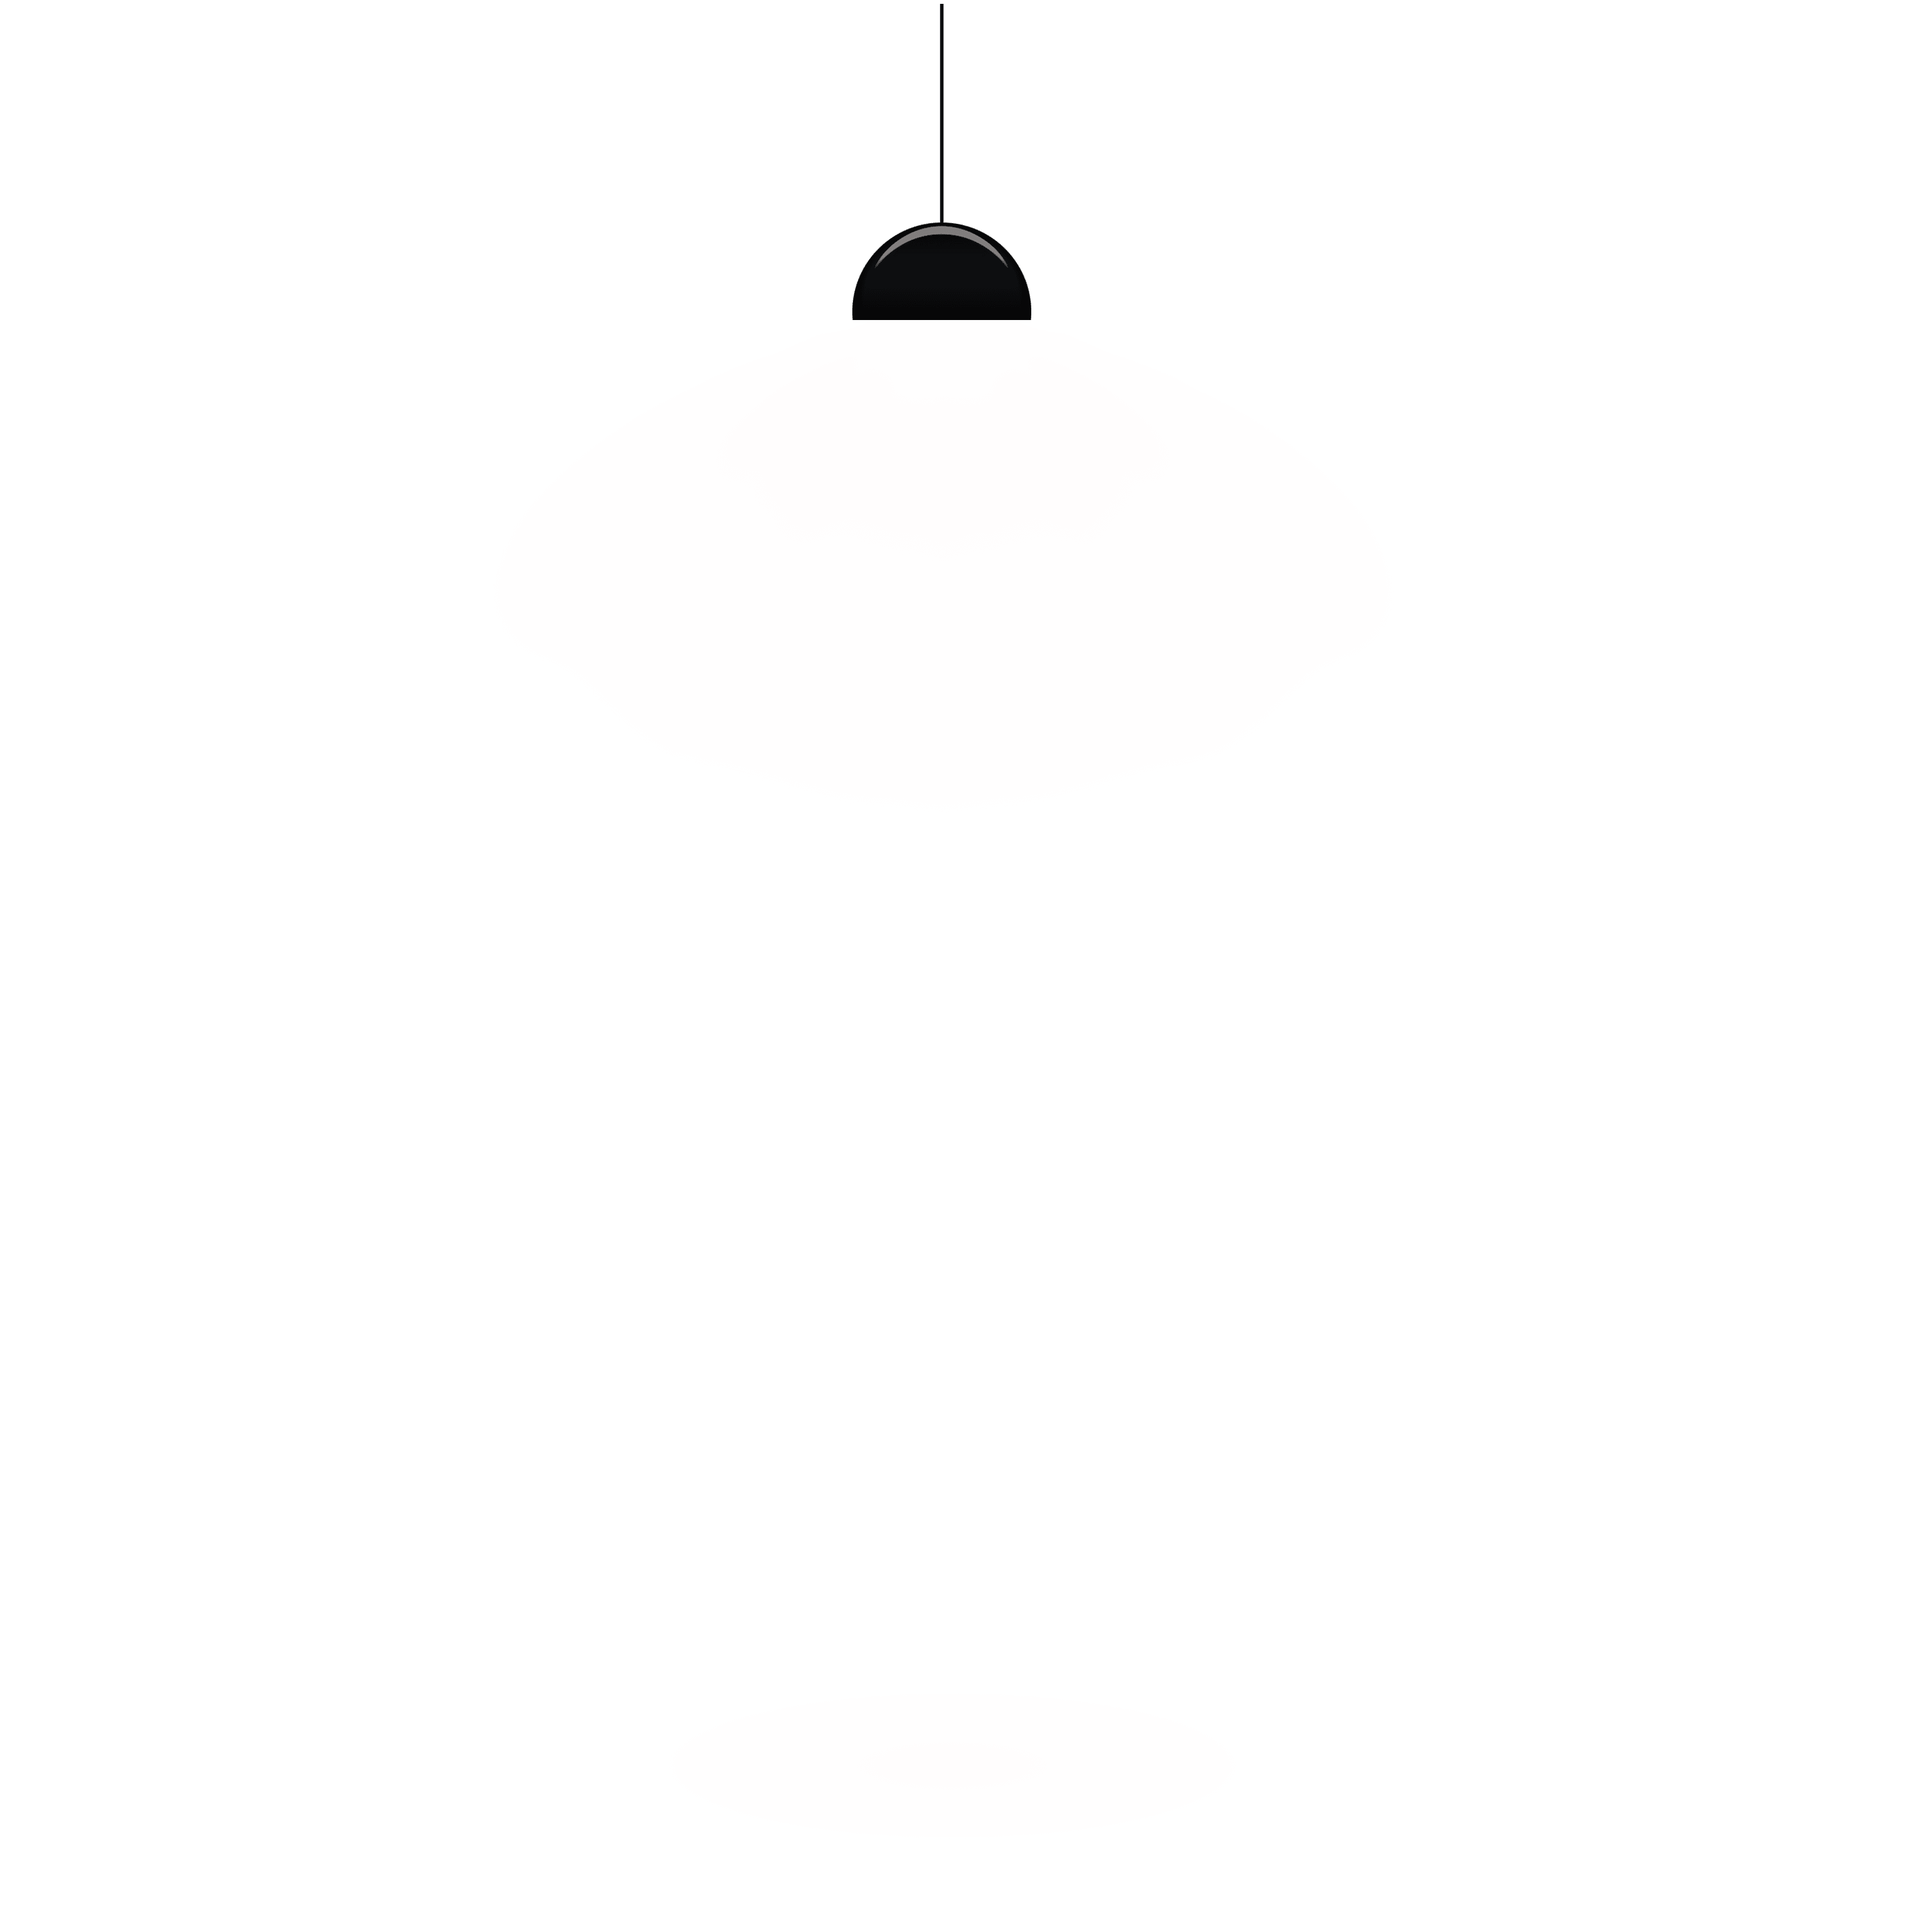
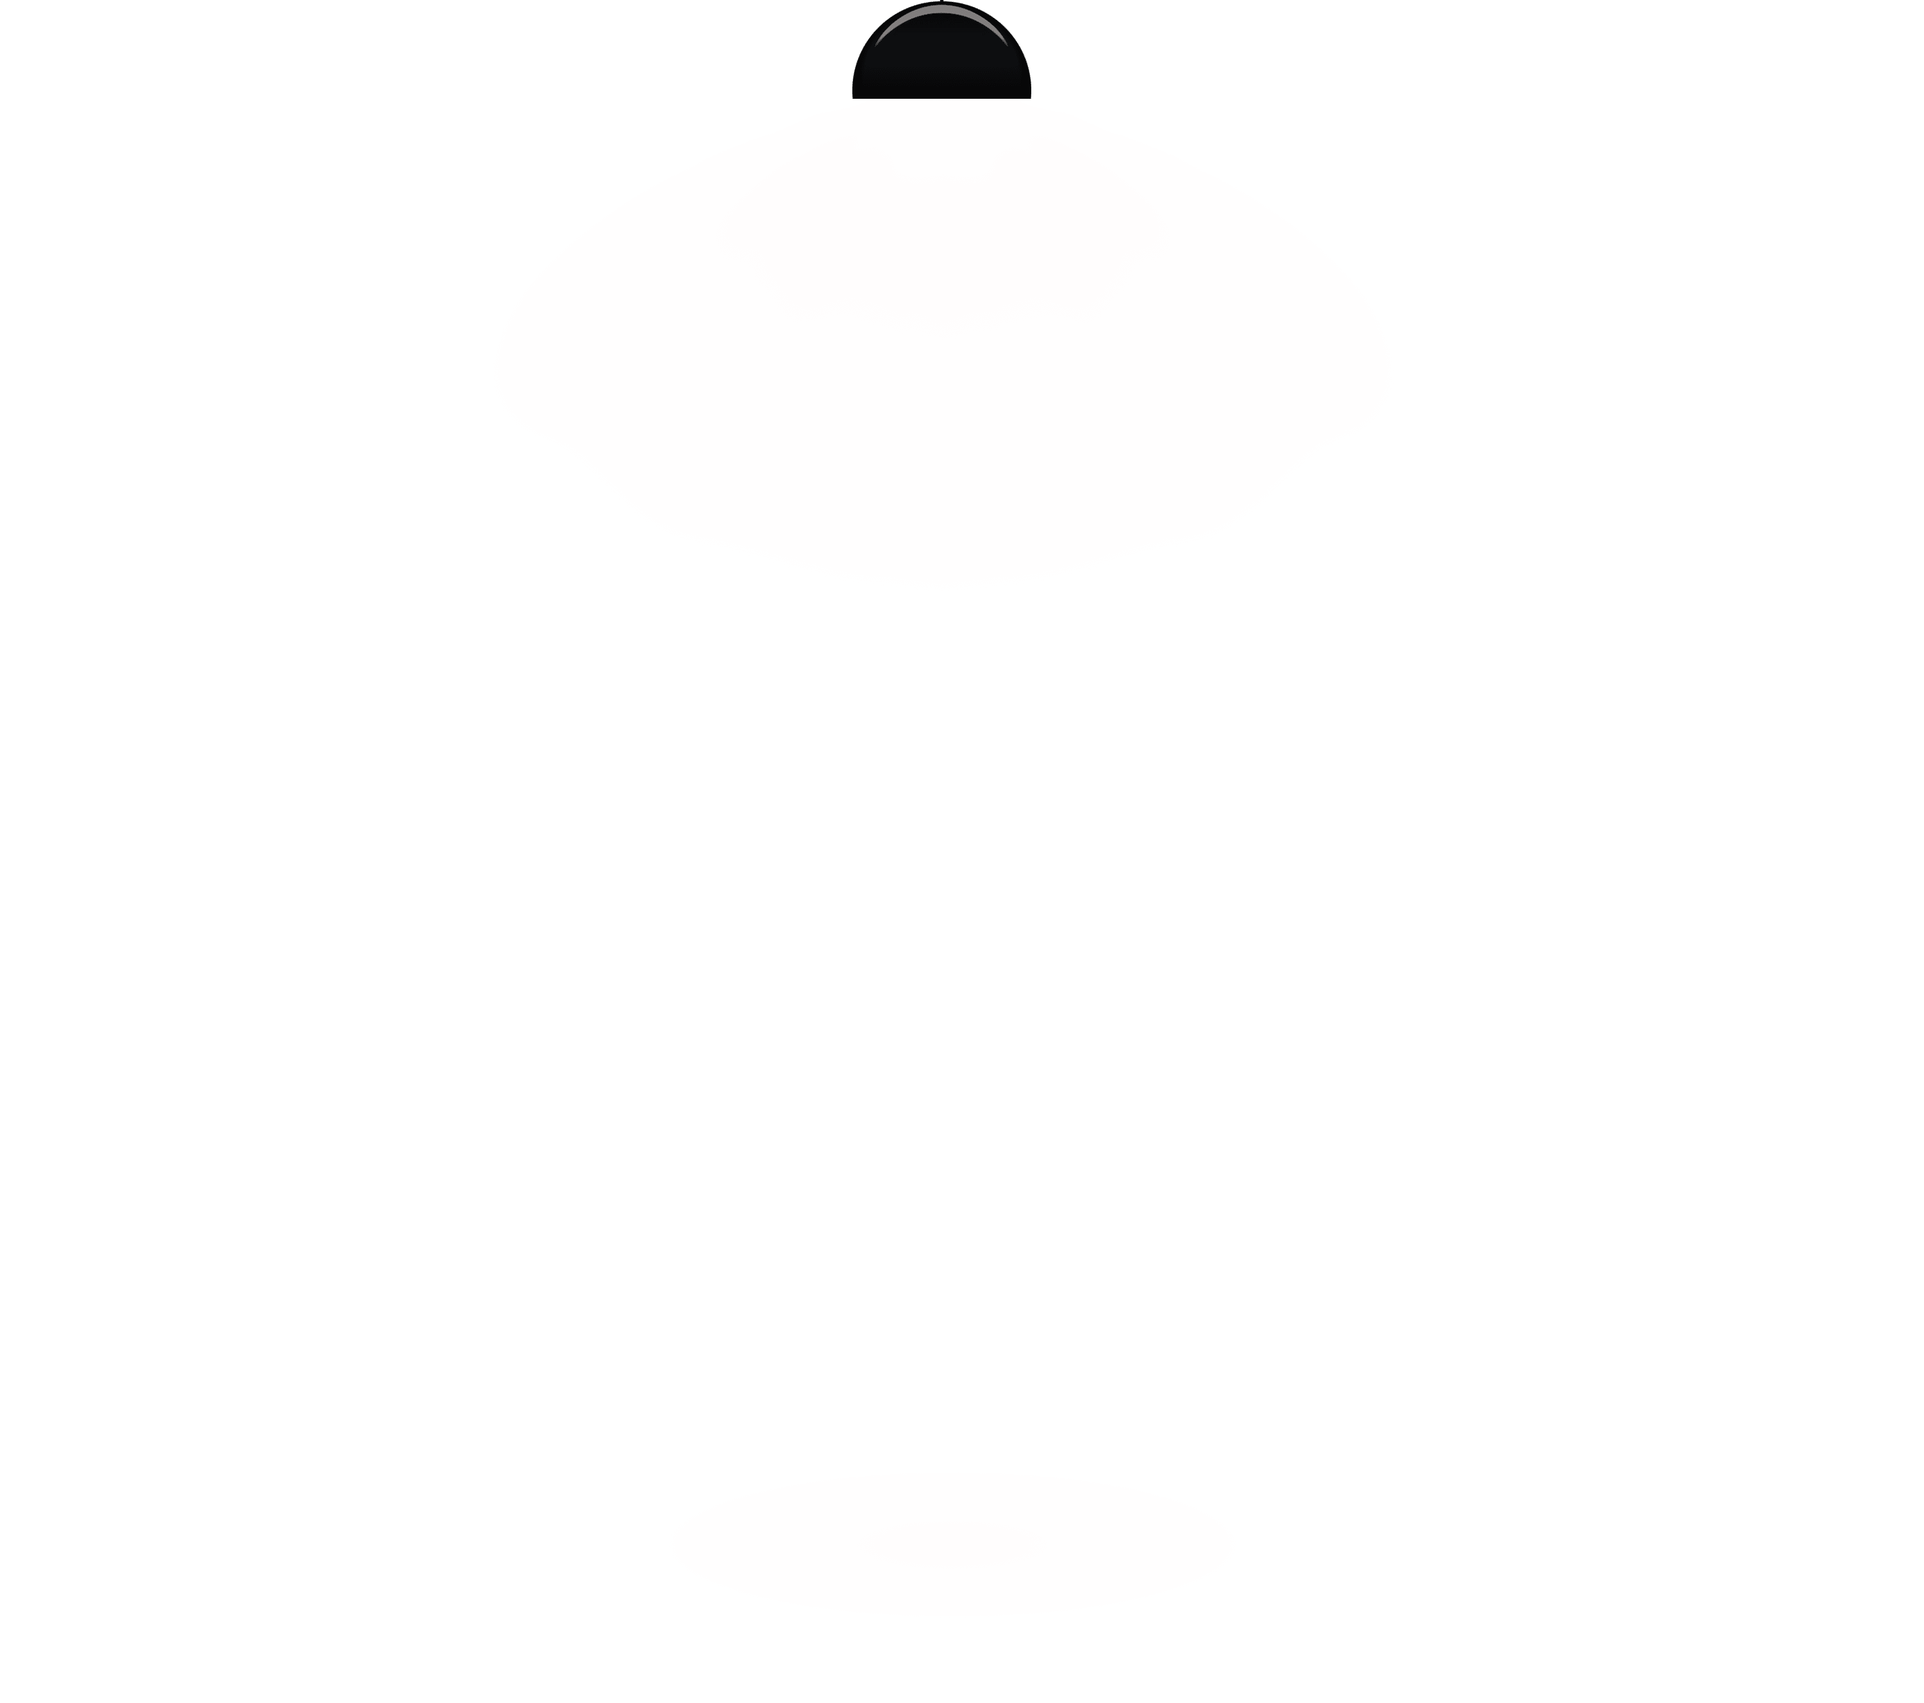
select page rendered

Changed region(s): [[0.434, 0.0927, 0.558, 0.1853], [0.434, 0.0, 0.558, 0.0618]]

diff --git a/BMWExp/dist/main.js b/BMWExp/dist/main.js
@@ -15,7 +15,7 @@
   \**********************/
 /***/ (function() {
 
[2 lines of base64/hex data omitted]
 
 /***/ }),
 

diff --git a/BMWExp/src/index.js b/BMWExp/src/index.js
@@ -87,17 +87,26 @@ function renderInitialView(){
             const heading = document.createElement('h1')
             const m3 = document.createElement('img')
             const m5 = document.createElement('img')
+            const light1 = document.createElement('img')
+            const light2 = document.createElement('img')
+            selectionPage.setAttribute('id', 'selection')
             m3.src = 'Assets/m3logo.png'
             m3.alt = 'm3-logo'
             m3.setAttribute('id', 'm3logo')
             m5.src = 'Assets/m5logo.png'
             m5.alt = 'm5-logo'
             m5.setAttribute('id', 'm5logo')
+            light1.src = 'Assets/ceilinglight.png'
+            light1.setAttribute('id', 'light1')
+            light2.src = 'Assets/ceilinglight.png'
+            light2.setAttribute('id', 'light2')
             heading.setAttribute('class', 'head')
 
             heading.textContent = 'Please select your desired M model to view'
 
             selectionPage.appendChild(heading)
+            selectionPage.appendChild(light1)
+            selectionPage.appendChild(light2)
             selectionPage.appendChild(m3)
             selectionPage.appendChild(m5)
 

diff --git a/BMWExp/src/styles/index.css b/BMWExp/src/styles/index.css
@@ -111,6 +111,52 @@ p {
     animation: fade-in 3s ease forwards;
 }
 
+#m3logo {
+    display: flex;
+    justify-content: center;
+    align-items: center;
+    position: absolute;
+    left: 16%;
+    top: 50%;
+    width: 31%;
+    height: auto;
+    animation: fade-in 3s ease forwards;
+}
+
+#m5logo {
+    display: flex;
+    justify-content: center;
+    align-items: center;
+    position: absolute;
+    top: 50%;
+    left: 52%;
+    width: 30%;
+    height: auto;
+    animation: fade-in 3s ease forwards;
+}
+
+#light1 {
+    display: flex;
+    justify-content: center;
+    align-items: center;
+    position: absolute;
+    top: 25%;
+    left: 52%;
+    width: 30%;
+    height: auto;
+}
+
+#light2 {
+    display: flex;
+    justify-content: center;
+    align-items: center;
+    position: absolute;
+    top: 25%;
+    left: 17%;
+    width: 30%;
+    height: auto;
+}
+
 @media screen and (max-width: 768px) {
     h1 {
         font-size: 36px;
